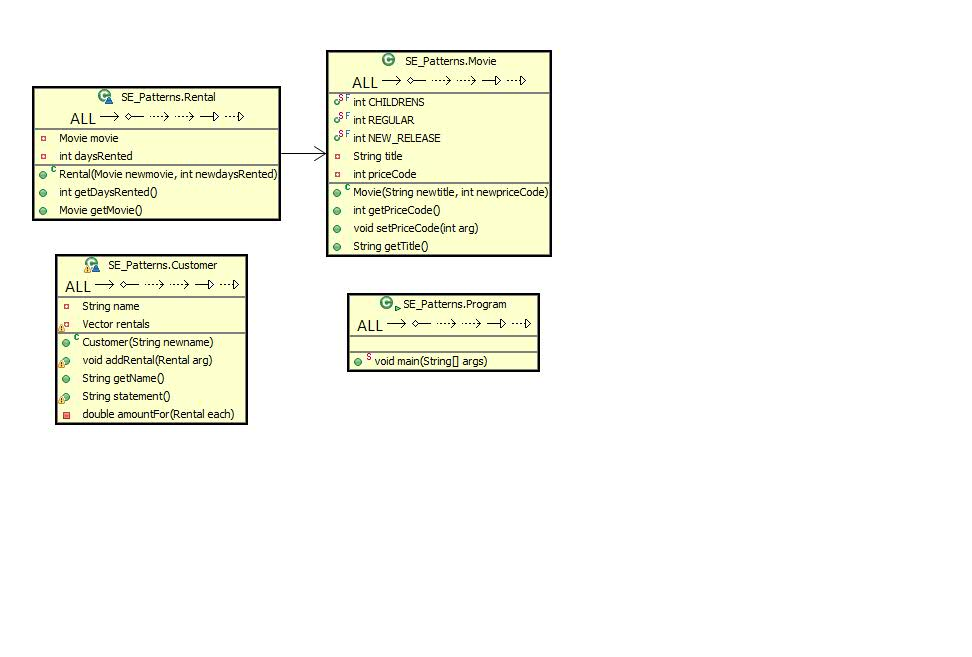
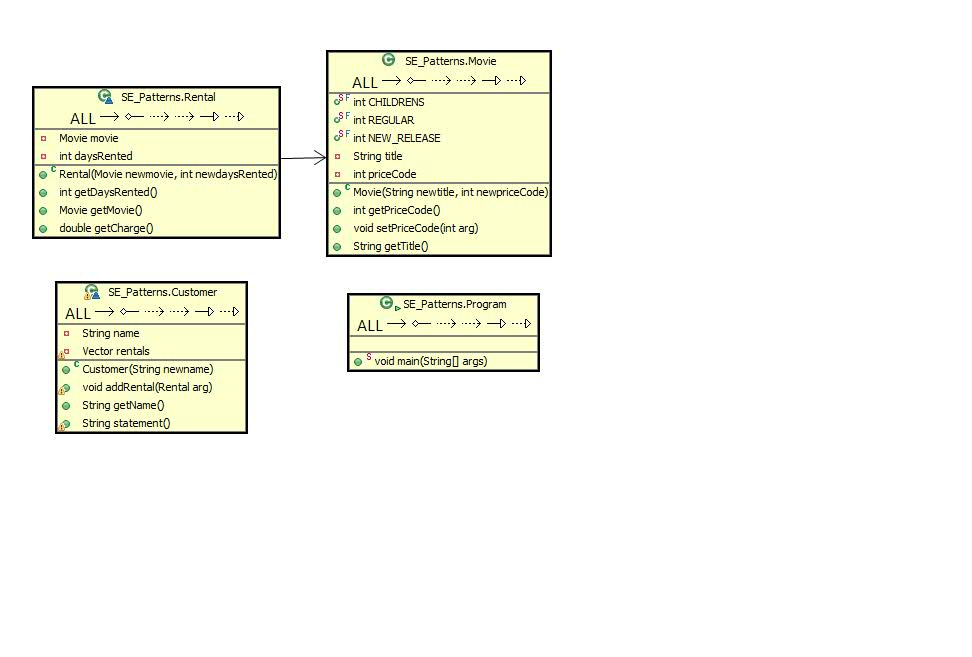
Move Method

Changed region(s): [[0.0309, 0.3044, 0.3086, 0.6697], [0.3086, 0.2131, 0.3395, 0.2435]]

diff --git a/src/SE_Patterns/Customer.java b/src/SE_Patterns/Customer.java
@@ -4,65 +4,52 @@ import java.lang.*;
 import java.util.*;
 
 class Customer {
-    private String name;
-    private Vector rentals = new Vector();
-    public Customer (String newname){
-        name = newname;
-    };
-    public void addRental(Rental arg) {
-        rentals.addElement(arg);
-    };
-    public String getName (){
-        return name;
-    };
-    public String statement() {
-        double totalAmount = 0;
-        int frequentRenterPoints = 0;
-        Enumeration enum_rentals = rentals.elements();	    
-        String result = "Rental Record for " + this.getName() + "\n";
-        result += "\t" + "Title" + "\t" + "\t" + "Days" + "\t" + "Amount" + "\n";
+	private String name;
+	private Vector rentals = new Vector();
 
-        while (enum_rentals.hasMoreElements()) {
-            double thisAmount = 0;
-            Rental each = (Rental) enum_rentals.nextElement();
-            
-            thisAmount = amountFor(each);
-            
-            // add frequent renter points
-            frequentRenterPoints ++;
-            // add bonus for a two day new release rental
-            if ((each.getMovie().getPriceCode() == Movie.NEW_RELEASE) && each.getDaysRented() > 1) 
-                frequentRenterPoints ++;
-            //show figures for this rental
-            result += "\t" + each.getMovie().getTitle()+ "\t" + "\t" + each.getDaysRented() + "\t" + String.valueOf(thisAmount) + "\n";
-            totalAmount += thisAmount;
-        }
-        //add footer lines
-        result += "Amount owed is " + String.valueOf(totalAmount) + "\n";
-        result += "You earned " + String.valueOf(frequentRenterPoints) + " frequent renter points";
-        return result;
-    }
-    
-	private double amountFor(Rental each) {
-		double thisAmount = 0;
-		//determine amounts for each line
-        switch (each.getMovie().getPriceCode()) {
-            case Movie.REGULAR:
-            	thisAmount += 2;
-            	if (each.getDaysRented() > 2)
-                	thisAmount += (each.getDaysRented() - 2) * 1.5;
-            	break;
-            case Movie.NEW_RELEASE:
-            	thisAmount += each.getDaysRented() * 3;
-            	break;
-            case Movie.CHILDRENS:
-            	thisAmount += 1.5;
-            	if (each.getDaysRented() > 3)
-                	thisAmount += (each.getDaysRented() - 3) * 1.5;
-            	break;
-        }
-        return thisAmount;
+	public Customer(String newname) {
+		name = newname;
+	};
+
+	public void addRental(Rental arg) {
+		rentals.addElement(arg);
+	};
+
+	public String getName() {
+		return name;
+	};
+
+	public String statement() {
+		double totalAmount = 0;
+		int frequentRenterPoints = 0;
+		Enumeration enum_rentals = rentals.elements();
+		String result = "Rental Record for " + this.getName() + "\n";
+		result += "\t" + "Title" + "\t" + "\t" + "Days" + "\t" + "Amount"
+				+ "\n";
+
+		while (enum_rentals.hasMoreElements()) {
+			double thisAmount = 0;
+			Rental each = (Rental) enum_rentals.nextElement();
+
+			thisAmount = each.getCharge();
+
+			// add frequent renter points
+			frequentRenterPoints++;
+			// add bonus for a two day new release rental
+			if ((each.getMovie().getPriceCode() == Movie.NEW_RELEASE)
+					&& each.getDaysRented() > 1)
+				frequentRenterPoints++;
+			// show figures for this rental
+			result += "\t" + each.getMovie().getTitle() + "\t" + "\t"
+					+ each.getDaysRented() + "\t" + String.valueOf(thisAmount)
+					+ "\n";
+			totalAmount += thisAmount;
+		}
+		// add footer lines
+		result += "Amount owed is " + String.valueOf(totalAmount) + "\n";
+		result += "You earned " + String.valueOf(frequentRenterPoints)
+				+ " frequent renter points";
+		return result;
 	}
-    
+
 }
-    

diff --git a/src/SE_Patterns/Rental.java b/src/SE_Patterns/Rental.java
@@ -12,4 +12,24 @@ class Rental {
     public Movie getMovie() {
         return movie;
     }
+    
+	public double getCharge() {
+		double result = 0;
+        switch (getMovie().getPriceCode()) {
+            case Movie.REGULAR:
+            	result += 2;
+            	if (getDaysRented() > 2)
+                	result += (getDaysRented() - 2) * 1.5;
+            	break;
+            case Movie.NEW_RELEASE:
+            	result += getDaysRented() * 3;
+            	break;
+            case Movie.CHILDRENS:
+            	result += 1.5;
+            	if (getDaysRented() > 3)
+                	result += (getDaysRented() - 3) * 1.5;
+            	break;
+        }
+        return result;
+	}
 }
